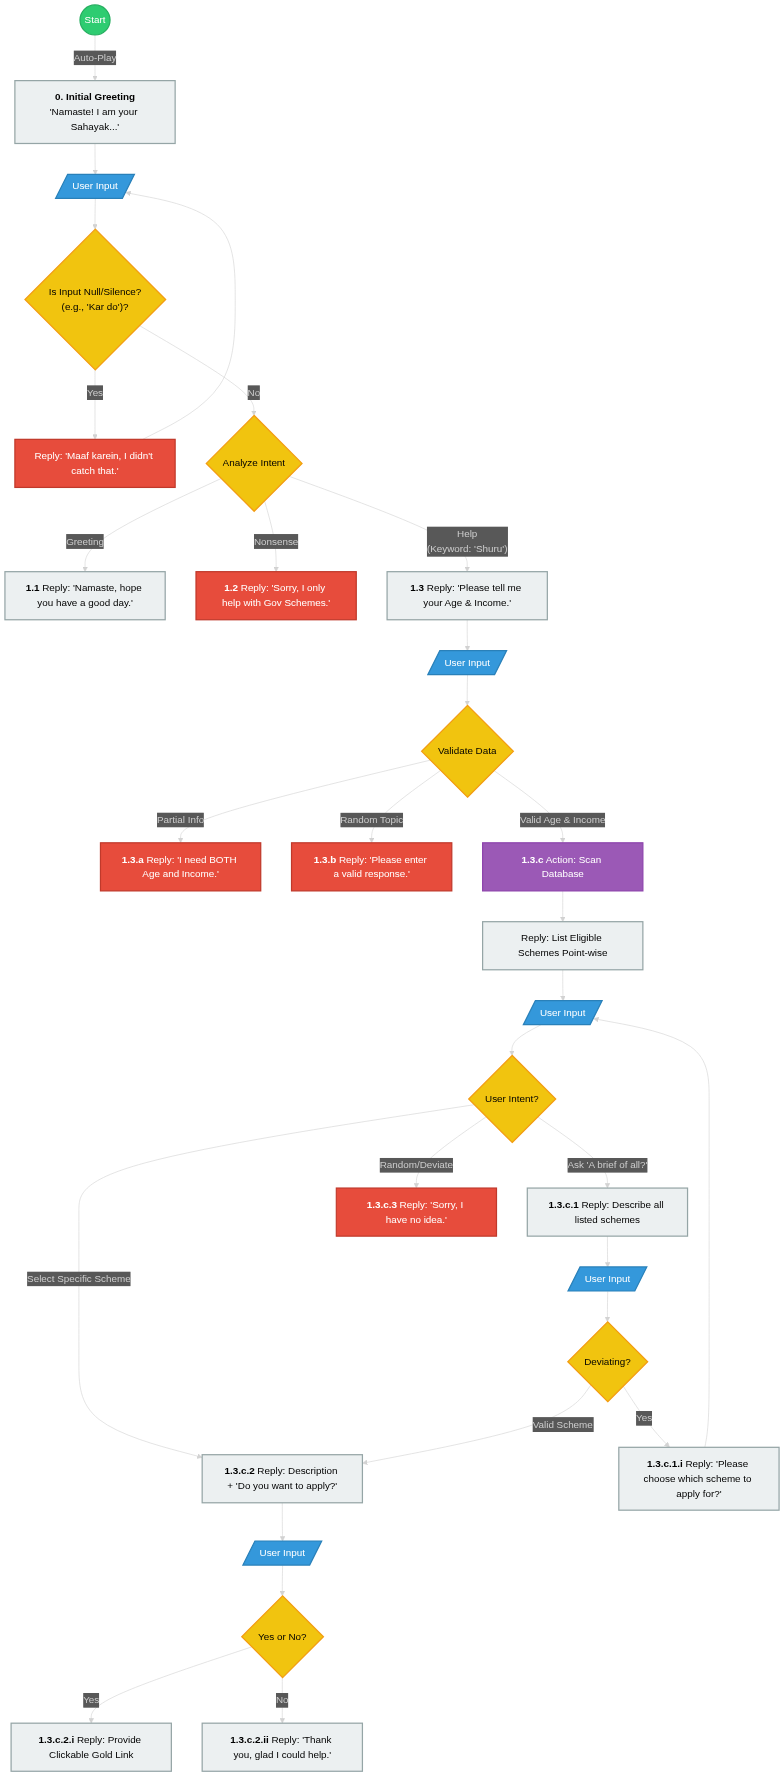
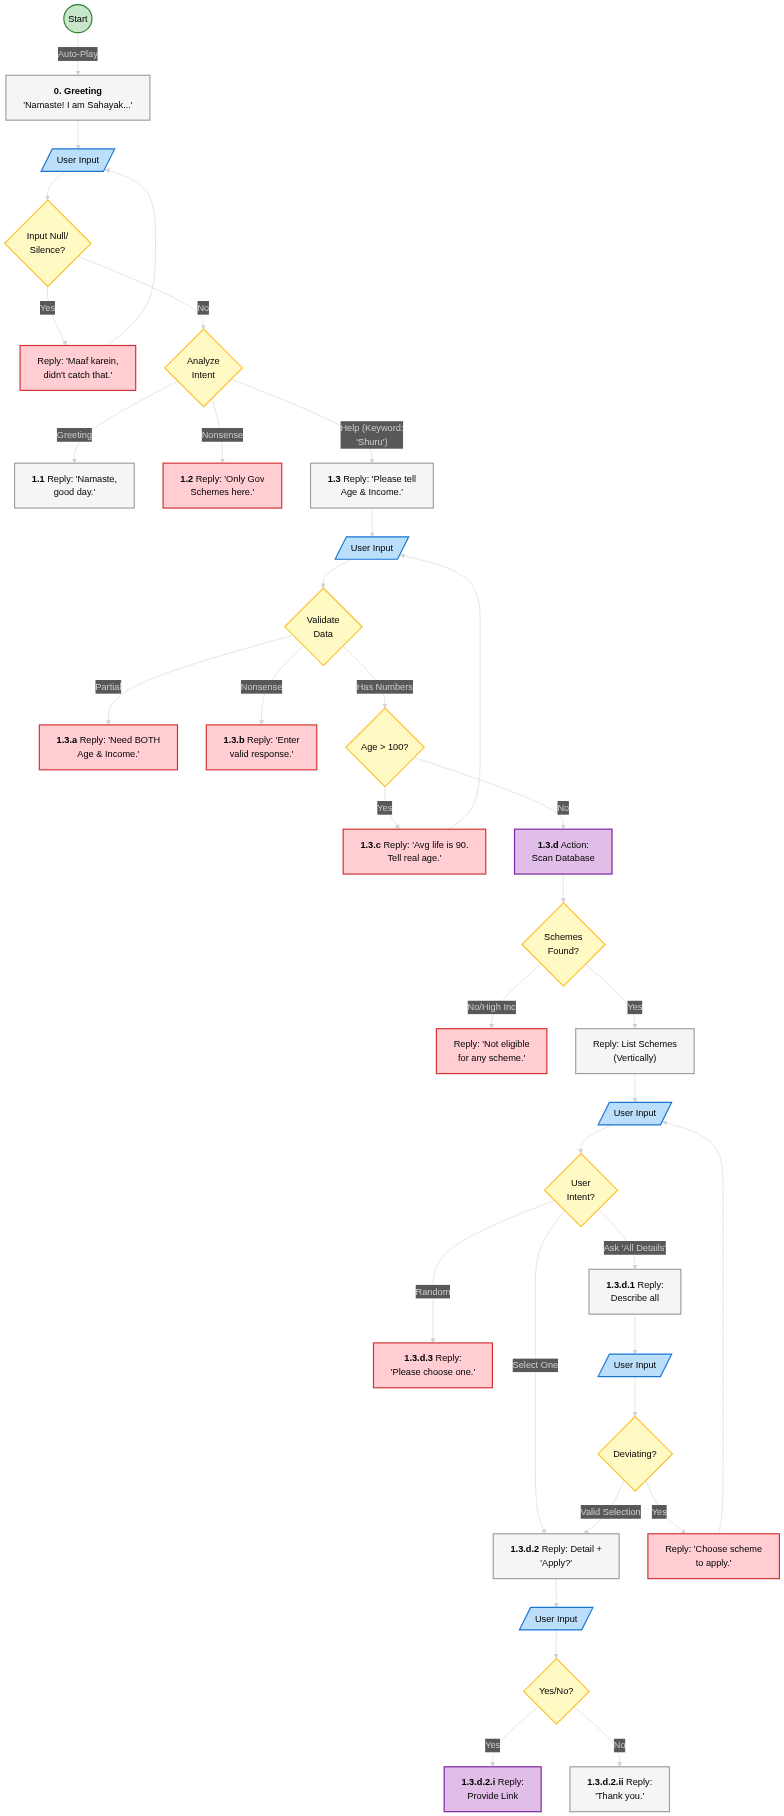
Saving my local changes

diff --git a/state.py b/state.py
@@ -139,6 +139,7 @@ def analyzer_node(state: AgentState):
 def decision_node(state: AgentState):
     """
     The Rule Engine: Maps Intents + Stage to specific responses.
+    Includes Sanity Checks and Vertical List Formatting.
     """
     intent = state.get("current_intent")
     stage = state.get("stage", "intro")
@@ -165,25 +166,44 @@ def decision_node(state: AgentState):
         else:
             response_text = "क्षमा करें, मैं केवल सरकारी योजनाओं में आपकी सहायता कर सकता हूँ।"
 
-    # --- LAYER 2: Collecting Info ---
+    # --- LAYER 2: Collecting Info & Validation ---
     if intent == "provide_info" or (stage == "collecting_info" and intent not in ["greeting", "irrelevant"]):
         if not age or not income:
             response_text = "सही योजना खोजने के लिए मुझे आपकी उम्र और आय दोनों की आवश्यकता होगी |"
             next_stage = "collecting_info"
         else:
+            # --- VALIDATION STEP 1: Age Sanity Check ---
+            # If age is unrealistic (above 100), stop here.
+            try:
+                age_int = int(age)
+                income_int = int(income)
+            except:
+                age_int = 0
+                income_int = 0
+
+            if age_int > 100:
+                response_text = "मनुष्य का औसत जीवनकाल 90 साल होता है, कृपया मुझे अपनी सही उम्र बताएं।"
+                # Keep stage as collecting_info so they can try again
+                return {"messages": [response_text], "stage": "collecting_info"}
+
+            # --- VALIDATION STEP 2: Run Tool & Check Eligibility ---
             # TOOL 1 USAGE: Search Database
             schemes = search_schemes_tool()
-            eligible = [s for s in schemes if int(age) >= s['min_age'] and int(income) <= s['max_income']]
+            eligible = [s for s in schemes if age_int >= s['min_age'] and income_int <= s['max_income']]
             
             if eligible:
-                names = ", ".join([f"{i+1}. {s['name_hi']}" for i, s in enumerate(eligible)])
-                response_text = f"आपकी जानकारी के आधार पर, आप निम्नलिखित योजनाओं के लिए पात्र हैं:\n{names}"
+                # Format: Vertical List (One below another) using \n
+                names = "\n".join([f"{i+1}. {s['name_hi']}" for i, s in enumerate(eligible)])
+                
+                response_text = f"आपकी जानकारी के आधार पर, आप निम्नलिखित योजनाओं के लिए पात्र हैं:\n\n{names}"
                 next_stage = "schemes_presented"
-                # Important: Update state with eligible schemes immediately
+                
+                # Update state with eligible schemes immediately
                 return {"messages": [response_text], "eligible_schemes": eligible, "stage": next_stage}
             else:
-                response_text = "क्षमा करें, आपकी आयु और आय के आधार पर अभी कोई योजना उपलब्ध नहीं है।"
-                next_stage = "intro" 
+                # If income is too high or criteria not met (Empty List)
+                response_text = "आप किसी भी सरकारी योजनाओं के लिए पात्र नहीं हैं।"
+                next_stage = "intro" # Reset conversation since no schemes found
 
     elif stage == "collecting_info" and intent == "irrelevant":
          response_text = "कृपया एक मान्य उत्तर दर्ज करें | पात्रता जानने के लिए मुझे आपकी आयु और आय दोनों की आवश्यकता है।"
@@ -236,6 +256,7 @@ def decision_node(state: AgentState):
         response_text = "माफ़ करें, मैं समझ नहीं पाया।"
 
     return {"messages": [response_text], "stage": next_stage}
+
 
 # --- 5. GRAPH CONSTRUCTION ---
 workflow = StateGraph(AgentState)
